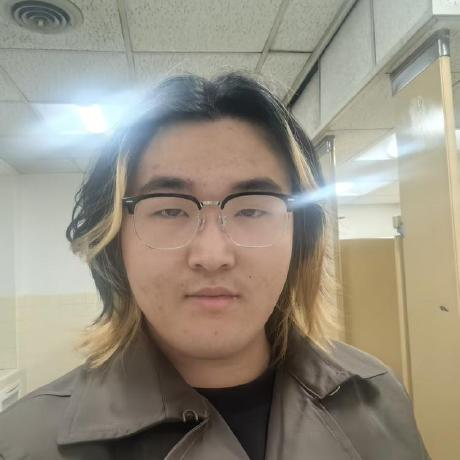
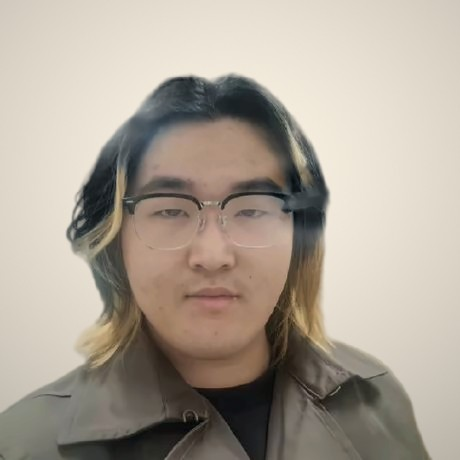
Update portrait to the current GitHub headshot

diff --git a/index.html b/index.html
@@ -31,7 +31,7 @@
       <h2 id="about-title">About Me</h2>
       <div class="about-layout">
         <aside class="profile" aria-label="Profile and links">
-          <img class="portrait" src="assets/portrait.jpg" alt="Hanyue Shen's GitHub profile photograph" width="160" height="160" fetchpriority="high">
+          <img class="portrait" src="assets/portrait.jpg?v=20261118" alt="Hanyue Shen's GitHub profile photograph" width="160" height="160" fetchpriority="high">
           <p class="affiliation">Stevens Institute of Technology<br>Mathematics<br>Pinnacle Scholar<br>Expected graduation: Fall 2027</p>
           <p class="profile-links"><a href="mailto:hshen14@stevens.edu">Email</a><span aria-hidden="true"> · </span><a href="https://github.com/Henry-Hanyue-Shen">GitHub</a><span aria-hidden="true"> · </span><a href="https://orcid.org/0009-0009-5934-6384">ORCID</a></p>
         </aside>
